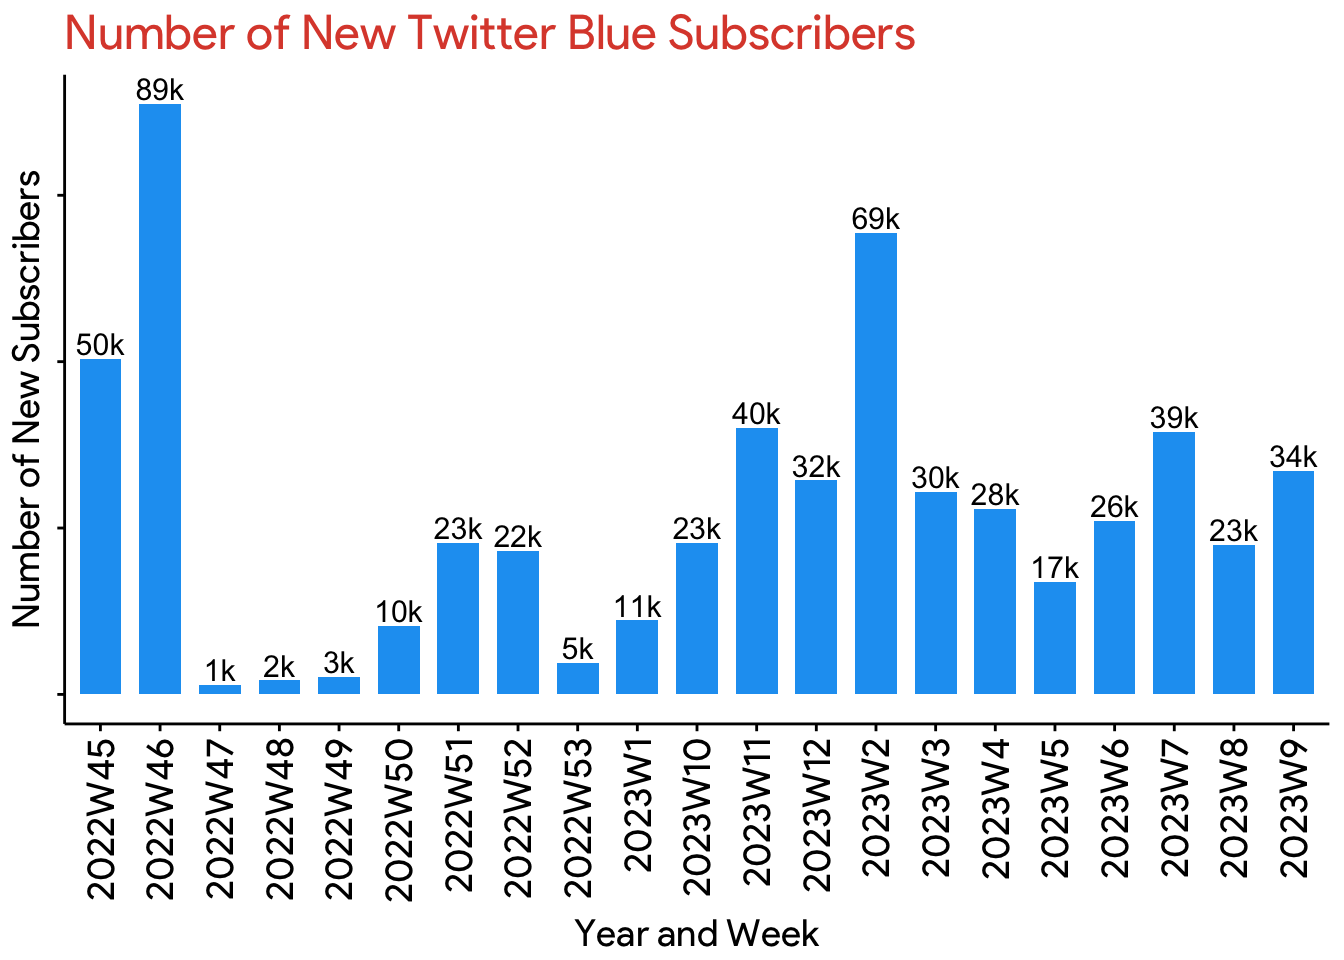
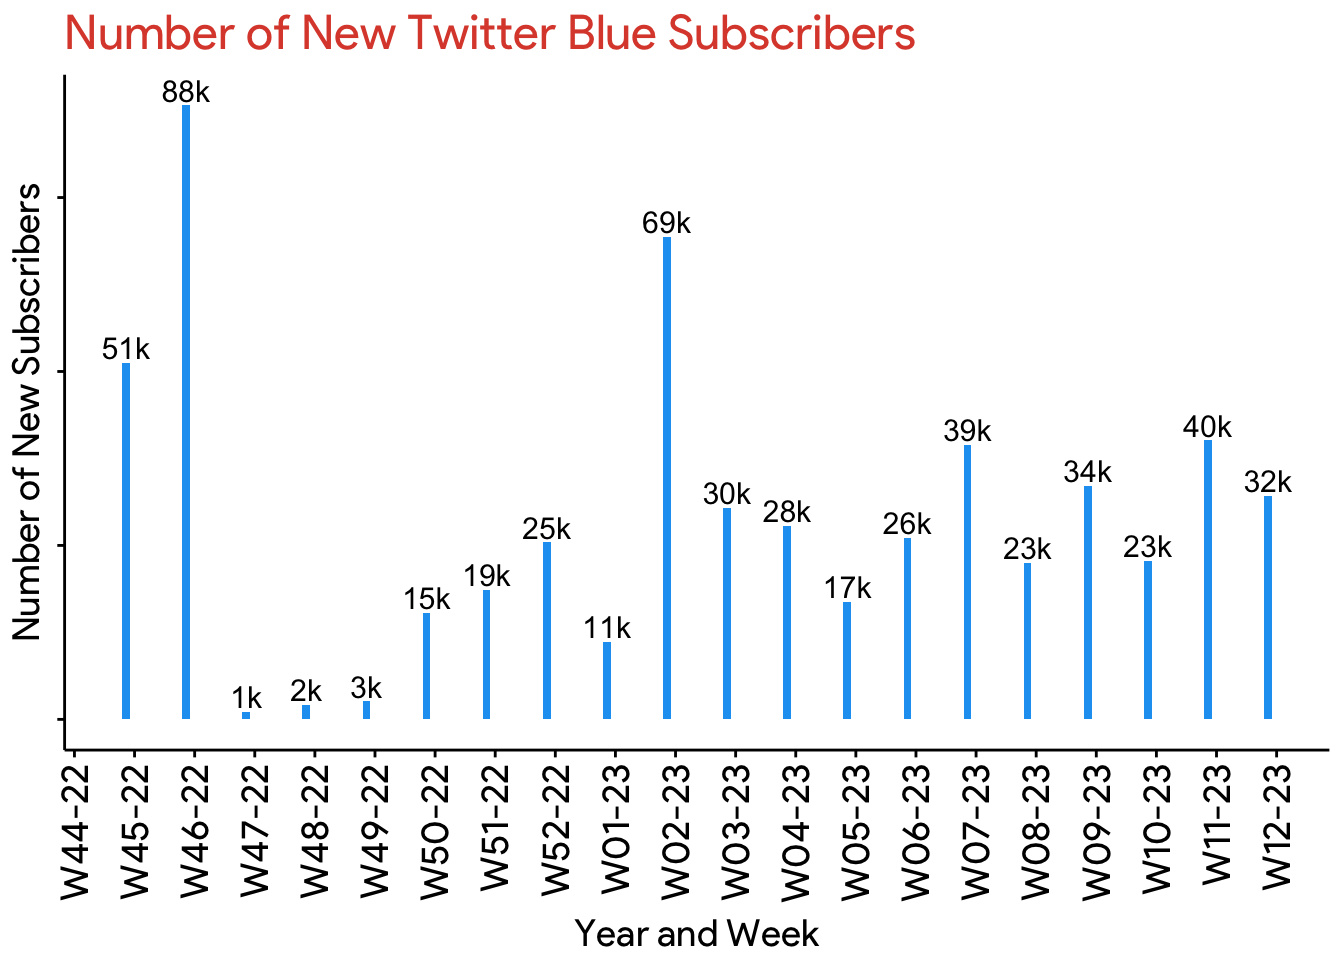
major correction!

Changed region(s): [[0.0, 0.0625, 1.0, 0.9375]]

diff --git a/content/blog/2023-04-01-twitter-blue/index.md b/content/blog/2023-04-01-twitter-blue/index.md
@@ -11,6 +11,7 @@ categories:
   - twitter
   - R
 tags: []
+draft: true
 ---
 
 <script src="{{< blogdown/postref >}}index_files/htmlwidgets/htmlwidgets.js"></script>
@@ -181,14 +182,10 @@ Let’s dive in.
 ``` r
 df1 = df %>% 
   # add year and week to the data
-  mutate(year = as.character(year(date_blue_sub)),
-         week = as.character(week(date_blue_sub))) %>% 
-  
-  # join year and week with a W
-  mutate(year_week = paste(year, week, sep = "W")) %>% 
+  mutate(week_blue_sub = floor_date(date_blue_sub, "weeks")) %>% 
   
   # grouping and summarising for plots
-  group_by(year_week) %>% 
+  group_by(week_blue_sub) %>% 
   summarise(count = n()) %>% 
   
   # adding rounded labels
@@ -198,22 +195,16 @@ df1 = df %>%
 # This code creates a bar chart using ggplot and customizes its appearance.
 # It uses data stored in df1 and sets the x-axis to year_week, the y-axis to count, and the label to lab.
 df1 %>% 
-  ggplot(aes(x = year_week, y = count, label = lab)) + 
-  # adding bar plot
-  geom_bar(stat = "identity", position = "dodge", width = 0.7, fill = "#1DA1F2") + 
-  # adding text
+  ggplot(aes(x = week_blue_sub, y = count, label = lab)) + 
+  geom_bar(stat = "identity", position = "dodge", width = 0.9, fill = "#1DA1F2") + 
   geom_text(vjust = -0.2, size = 4) + 
-
-  # Editing elements of theme like position, angle and size
+  scale_x_date(date_breaks = "1 week",
+               labels = scales::date_format(format = "W%W-%y")) +
   theme(axis.text.x = element_text(angle = 90, vjust = 0.5, hjust=1),
         axis.title = element_text(size = 14),
         axis.text.y = element_blank()) + 
-
-  # setting x, y labels and title
   labs(x = "Year and Week", y = "Number of New Subscribers",
        title = "Number of New Twitter Blue Subscribers") +
-
-  # The plot title font size is adjusted.
   theme(plot.title = element_text(size = 18))
 ```
 
